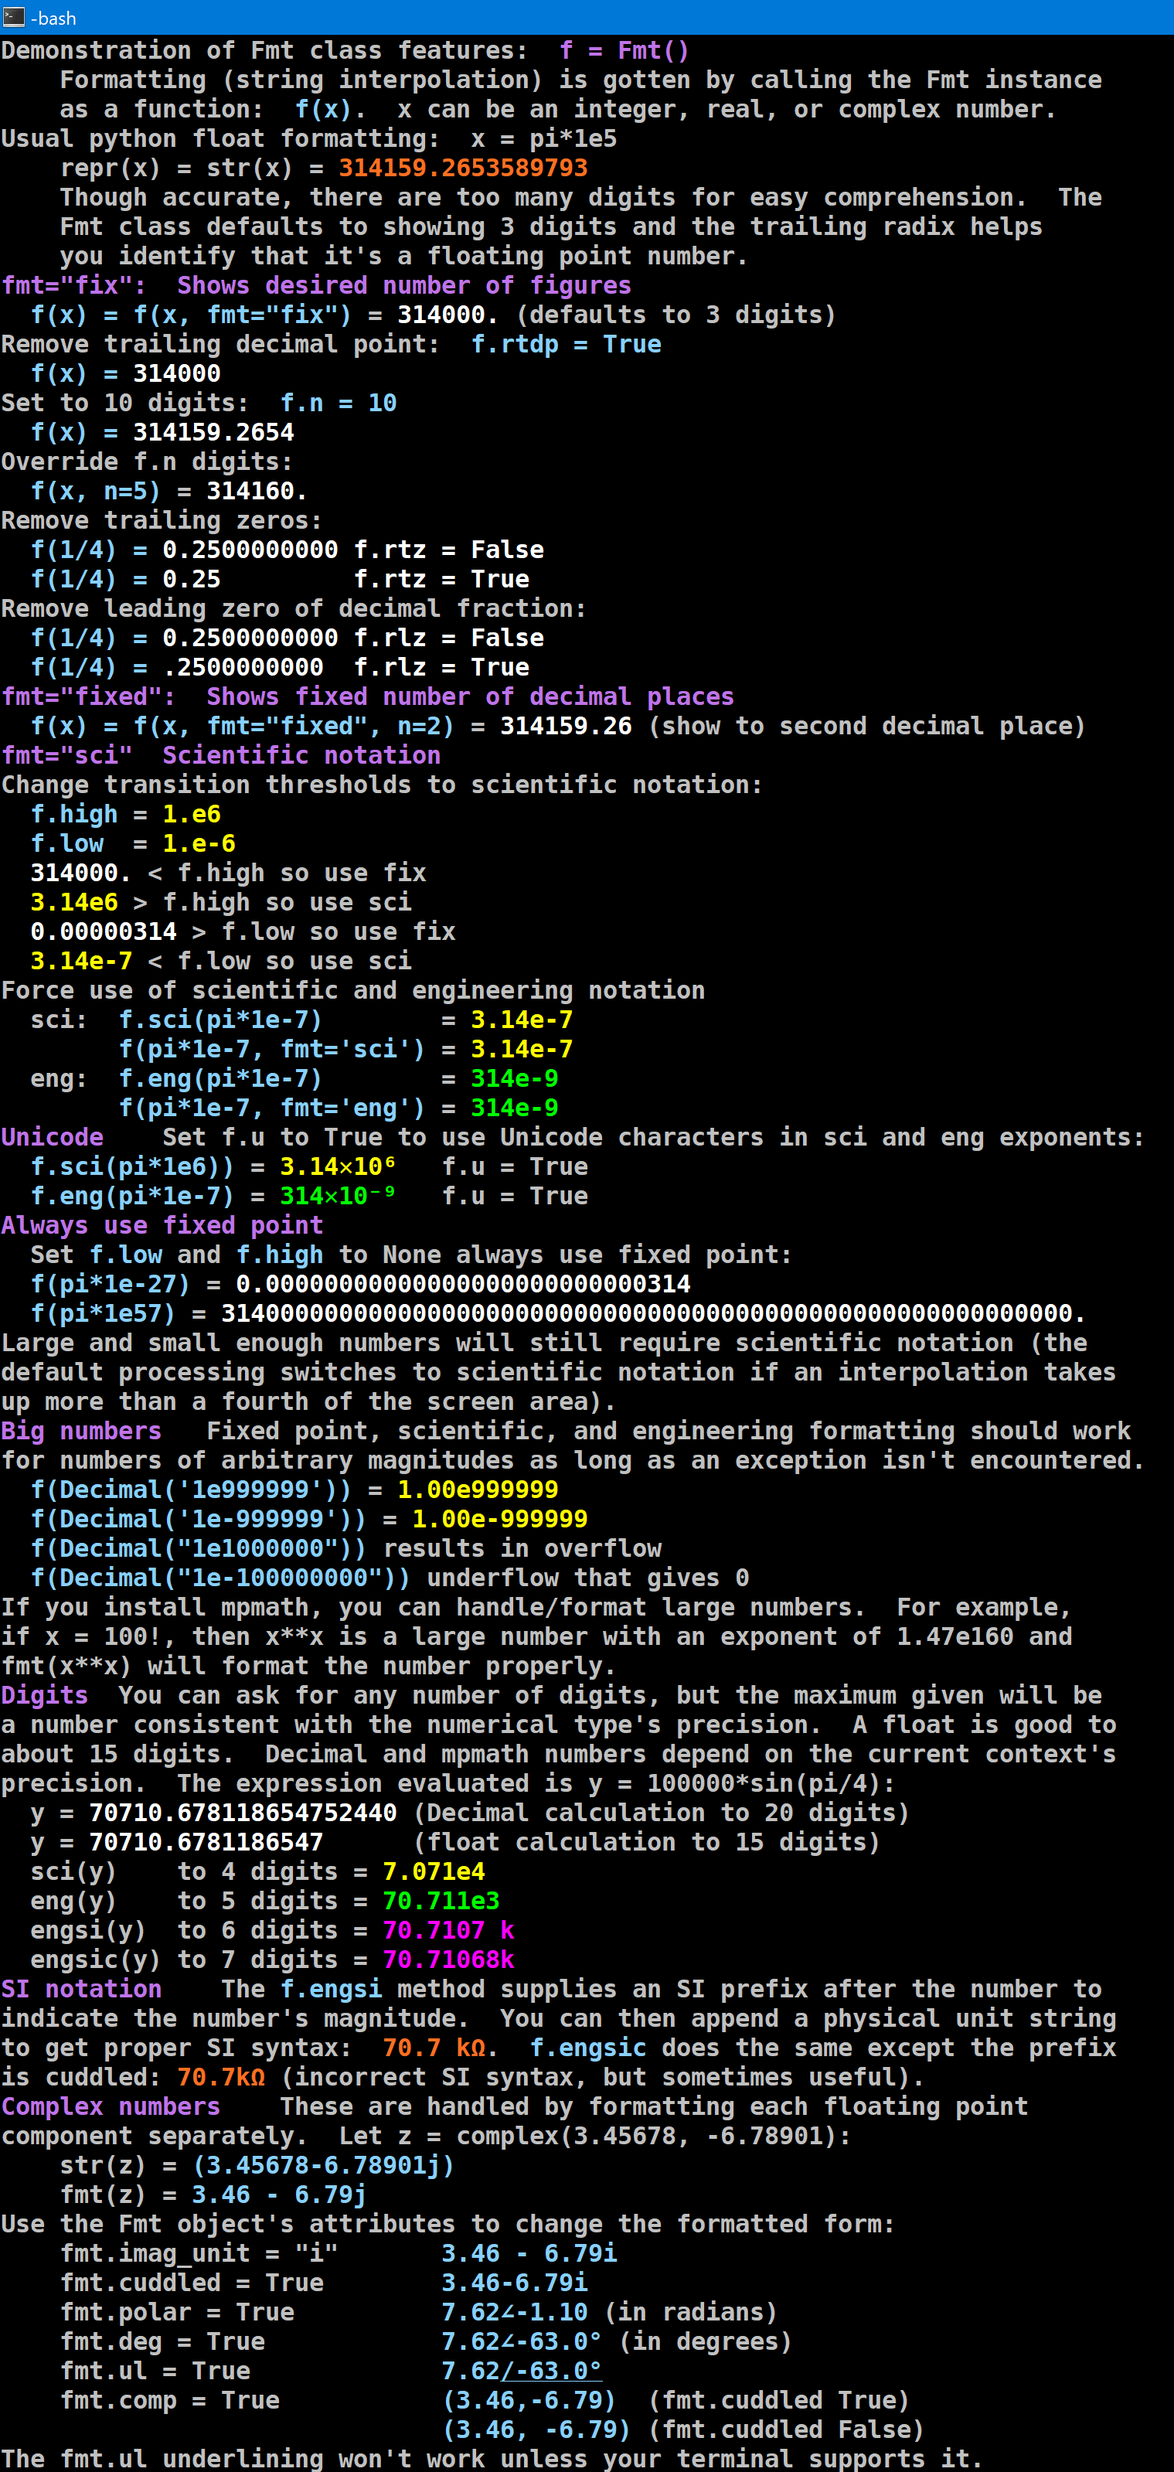
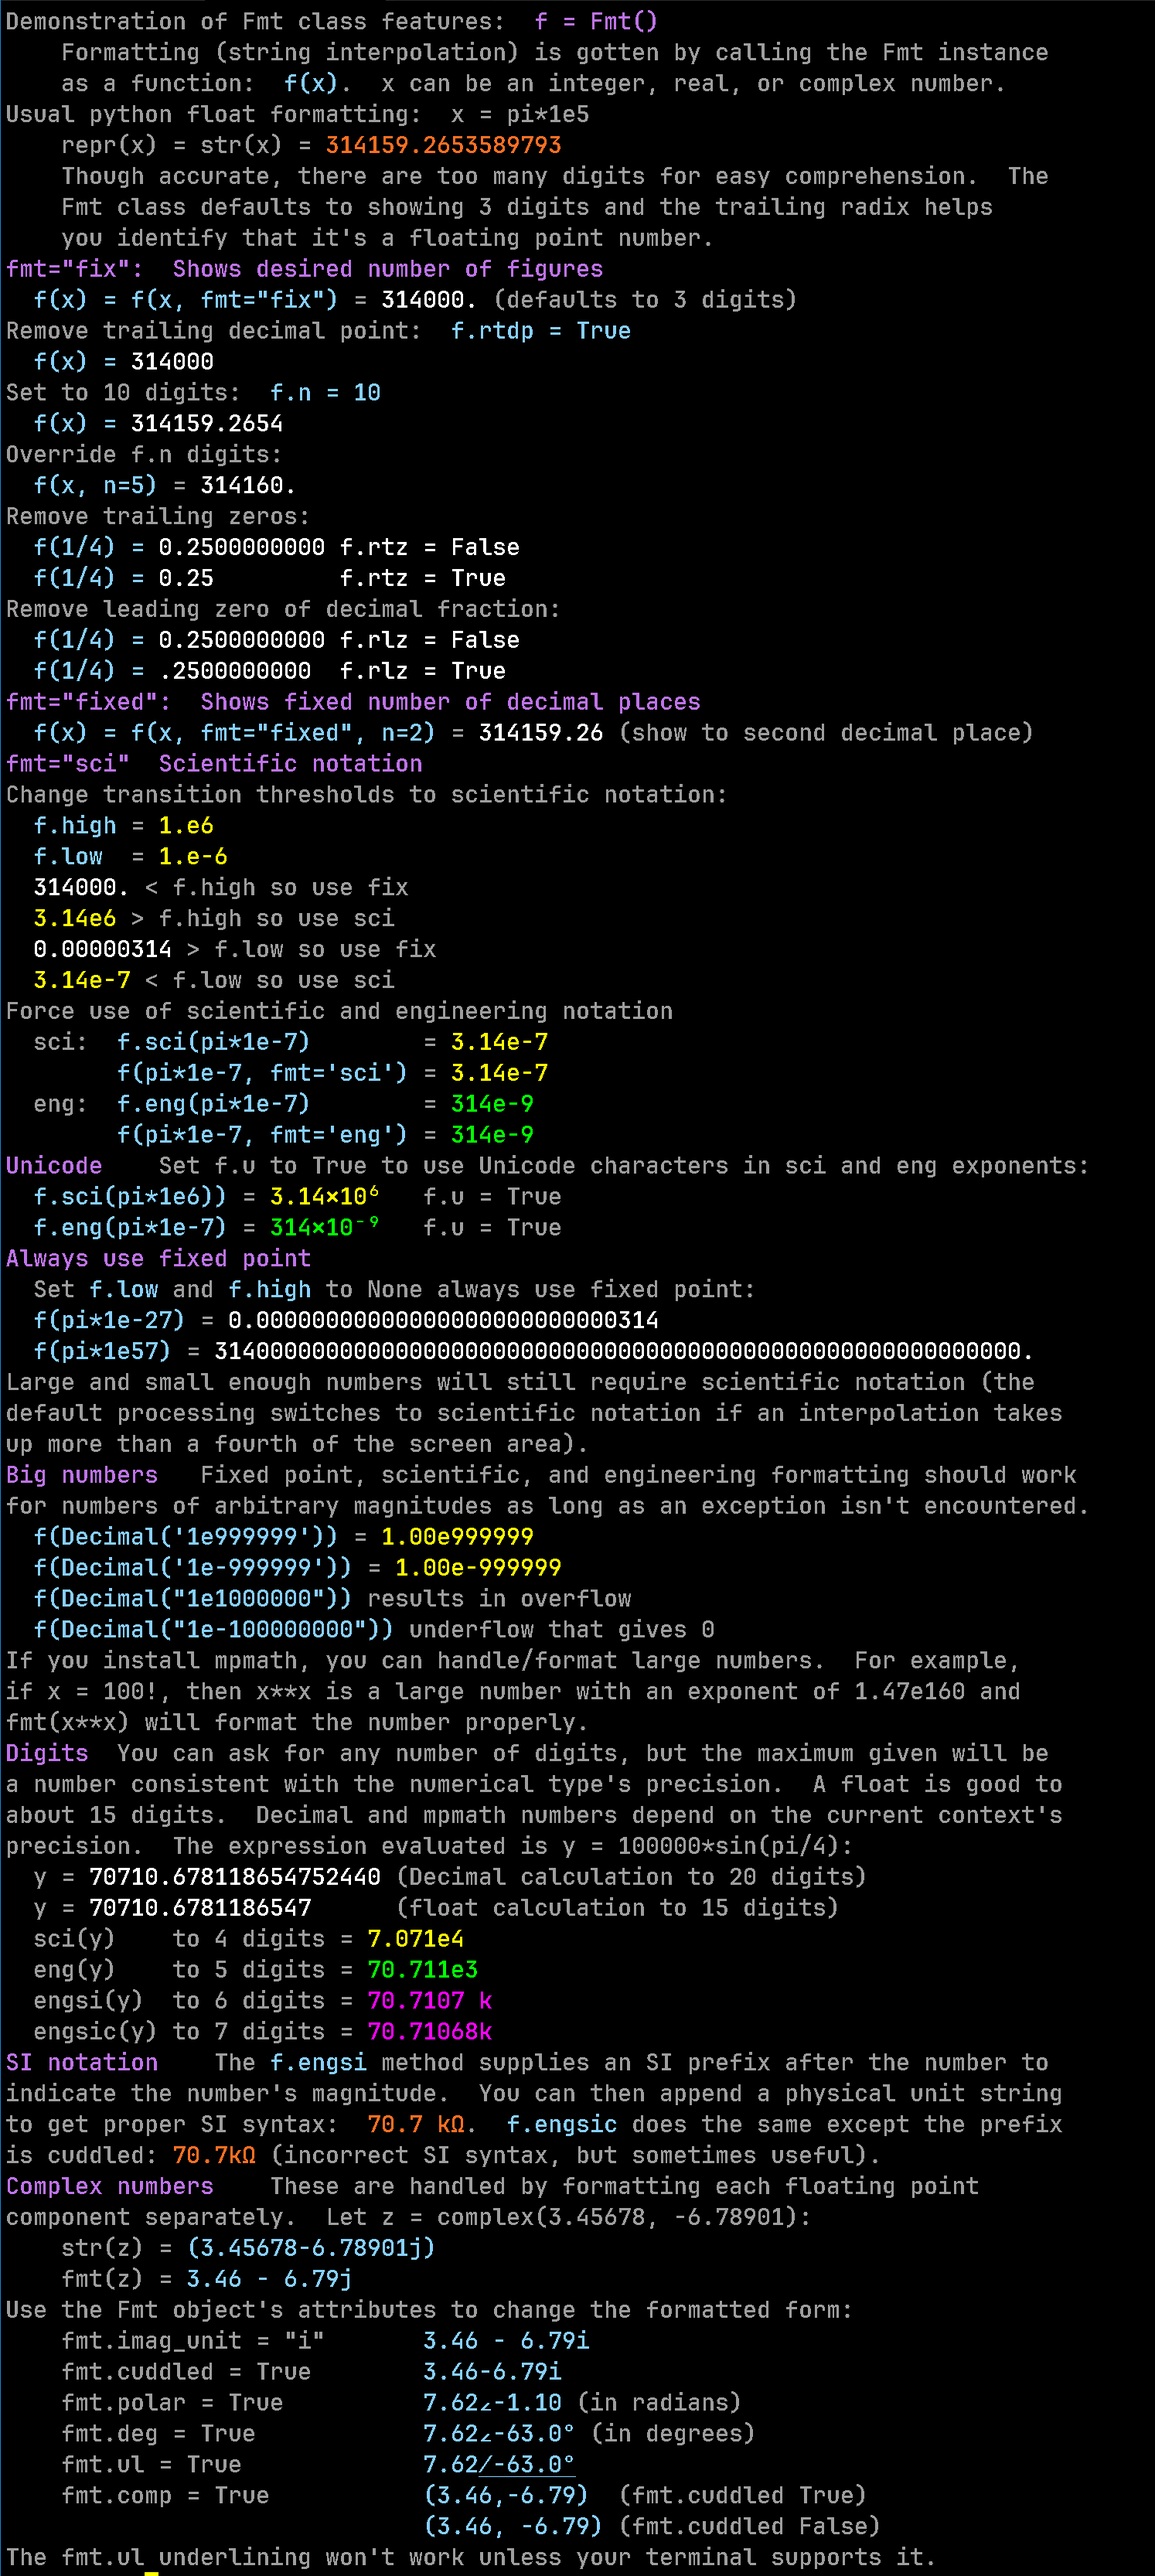
Updated

Changed region(s): [[0.0, 0.0, 1.0, 1.0]]

diff --git a/fmt.py b/fmt.py
@@ -1579,7 +1579,8 @@ if __name__ == "__main__":
             P = pathlib.Path
             d = {}      # Options dictionary
             # Set up colors for demo
-            u = use_colors = bool(os.environ.get("DPRC", False))
+            u = use_colors = True
+            t.always = True
             t.t = t() if u else ""          # Title
             t.u = t("ornl") if u else ""    # Normal float formatting
             t.f = t("sky") if u else ""     # Feature being demonstrated
@@ -1722,7 +1723,7 @@ if __name__ == "__main__":
         indicate the number's magnitude.  You can then append a physical unit string
         to get proper SI syntax:  {t.u}{f(x, 'engsi')}Ω{t.n}.  {t.f}f.engsic{t.n} does the same except the prefix
         is cuddled: {t.u}{f(x, 'engsic')}Ω{t.n} (incorrect SI syntax, but sometimes useful).
-        ''', n=8))
+        '''))
         # Complex numbers
         z = complex(3.45678, -6.78901)
         fmt.imag_unit = "j"
@@ -1732,7 +1733,7 @@ if __name__ == "__main__":
             str(z) = {t.f}{str(z)}{t.n}
             fmt(z) = {t.f}{fmt(z)}{t.n}
         Use the Fmt object's attributes to change the formatted form:
-        ''', n=8))
+        '''))
         w, sp = 25, " "*4
         fmt.imag_unit = "i"
         s = 'fmt.imag_unit = "i"'
